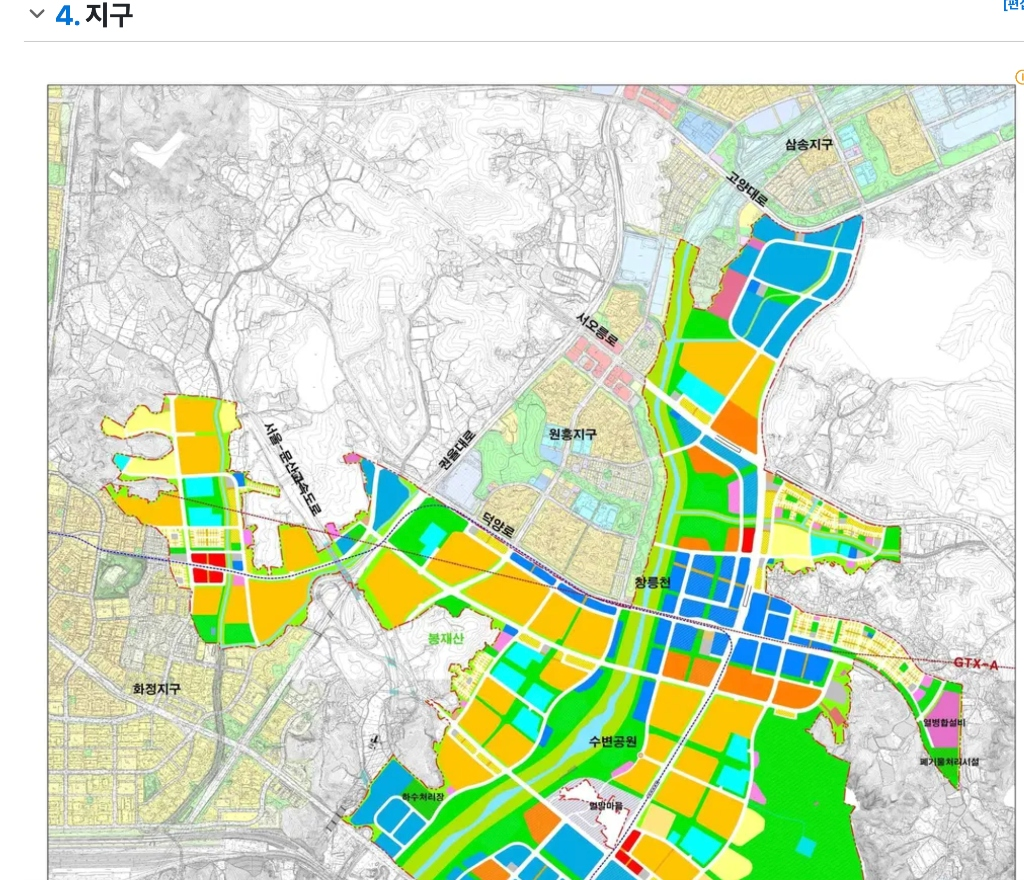
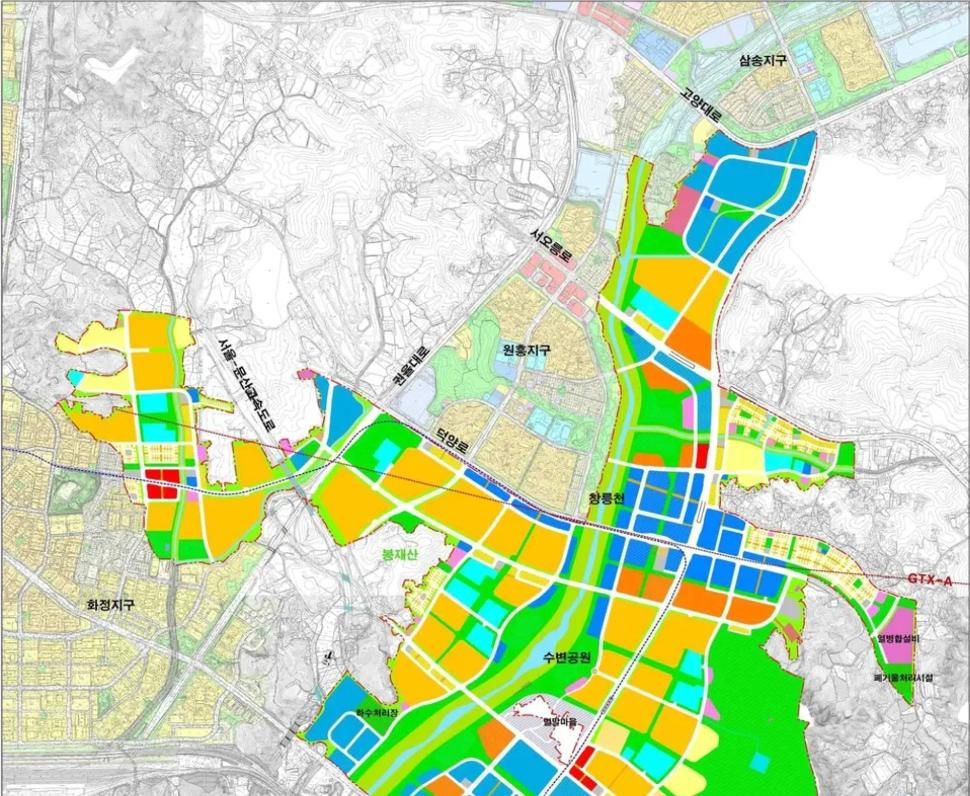
fix: Crop out webpage headers, accordions, and outer margins from blueprints so only the pure map drawing fills the viewer

diff --git a/src/components/RealEstateFuture.tsx b/src/components/RealEstateFuture.tsx
@@ -464,7 +464,7 @@ const NEW_TOWNS_DATA: NewTownDetail[] = [
     naverNewsQuery: '하남 교산 3기 신도시 3호선 송파하남선',
     officialBlueprintUrl: '/maps/hanam_gyosan_namu_dual.jpg',
     namuWikiUrl: 'https://namu.wiki/w/%EA%B5%90%EC%82%B0%EC%8B%A0%EB%8F%84%EC%8B%9C#s-2',
-    lhOfficialUrl: 'https://www.xn--3-3u6ey6lv7rsa.kr/kor/CMS/Contents/Contents.do?mCode=MN050',
+    lhOfficialUrl: 'https://www.xn--3-3u6ey6lv7rsa.kr/kor/CMS/Contents/Contents.do?mCode=MN056',
     mapCoords: { x: 670, y: 400, gangnamTime: '수서 15분 / 양재 22분', seoulTime: '잠실 15분' },
     blocks: [
       {
@@ -484,7 +484,7 @@ const NEW_TOWNS_DATA: NewTownDetail[] = [
         progressStatus: '2025년 본청약 예정',
         progressStatusColor: 'bg-[#0066ff] text-white',
         note: '1,115세대 랜드마크 대단지로 3호선 초역세권과 상업지구를 모두 갖춘 최고 핵심 블록',
-        pinPos: { x: 74, y: 35 }
+        pinPos: { x: 74, y: 30 }
       },
       {
         blockCode: '교산 A-1',
@@ -503,7 +503,7 @@ const NEW_TOWNS_DATA: NewTownDetail[] = [
         progressStatus: '착공 준비 중',
         progressStatusColor: 'bg-emerald-50 text-[#029f45] border-[#03c75a]/30',
         note: '도로를 건너지 않는 초품아 단지로 신혼부부 사전청약 당시 높은 경쟁률 기록',
-        pinPos: { x: 70, y: 28 }
+        pinPos: { x: 70, y: 22 }
       },
       {
         blockCode: '교산 B-1',
@@ -522,7 +522,7 @@ const NEW_TOWNS_DATA: NewTownDetail[] = [
         progressStatus: '지구조성 중',
         progressStatusColor: 'bg-slate-100 text-slate-700 border-slate-300',
         note: '민간 1군 브랜드가 시공 예정인 84㎡ 중심 하이엔드 공원 조망 단지',
-        pinPos: { x: 80, y: 48 }
+        pinPos: { x: 80, y: 44 }
       },
       {
         blockCode: '교산 B-3',
@@ -541,7 +541,7 @@ const NEW_TOWNS_DATA: NewTownDetail[] = [
         progressStatus: '2025년 하반기 본청약',
         progressStatusColor: 'bg-[#edf4ff] text-[#0066ff] border-[#0066ff]/30',
         note: '송파 접근성이 가장 뛰어나며 자족 첨단R&D 단지와 도보로 출퇴근 가능한 위치',
-        pinPos: { x: 78, y: 68 }
+        pinPos: { x: 78, y: 65 }
       }
     ]
   },
@@ -585,7 +585,7 @@ const NEW_TOWNS_DATA: NewTownDetail[] = [
         progressStatus: '본청약 완료/착공',
         progressStatusColor: 'bg-[#e8f8ee] text-[#029f45] border-[#03c75a]/30',
         note: 'GTX-A 창릉역을 걸어서 이용하는 창릉 최고 대장 블록. 삼성역 10분대 직결',
-        pinPos: { x: 75, y: 70 }
+        pinPos: { x: 74, y: 67 }
       },
       {
         blockCode: '창릉 S-6',
@@ -604,7 +604,7 @@ const NEW_TOWNS_DATA: NewTownDetail[] = [
         progressStatus: '본청약 완료/착공',
         progressStatusColor: 'bg-[#e8f8ee] text-[#029f45] border-[#03c75a]/30',
         note: '창릉천 수변공원 영구 조망과 초등학교를 동시에 품은 최고급 주거 입지',
-        pinPos: { x: 72, y: 62 }
+        pinPos: { x: 71, y: 58 }
       },
       {
         blockCode: '창릉 A-4',
@@ -623,7 +623,7 @@ const NEW_TOWNS_DATA: NewTownDetail[] = [
         progressStatus: '본청약 완료/착공',
         progressStatusColor: 'bg-[#edf4ff] text-[#0066ff] border-[#0066ff]/30',
         note: '2024년 말 본청약 접수 완료. 서부선과 직결되는 고양은평선 수혜 단지',
-        pinPos: { x: 38, y: 55 }
+        pinPos: { x: 35, y: 50 }
       },
       {
         blockCode: '창릉 B-1',
@@ -642,7 +642,7 @@ const NEW_TOWNS_DATA: NewTownDetail[] = [
         progressStatus: '부지 조성 중',
         progressStatusColor: 'bg-slate-100 text-slate-700 border-slate-300',
         note: '민간 브랜드 시공 예정으로 중대형 평형을 선호하는 갈아타기 수요 최우선 타겟',
-        pinPos: { x: 74, y: 45 }
+        pinPos: { x: 73, y: 39 }
       }
     ]
   },
@@ -686,7 +686,7 @@ const NEW_TOWNS_DATA: NewTownDetail[] = [
         progressStatus: '공급 준비 중',
         progressStatusColor: 'bg-slate-100 text-slate-700 border-slate-300',
         note: '부천대장 북서측 진입부 주거 블록',
-        pinPos: { x: 22, y: 44 }
+        pinPos: { x: 28, y: 42 }
       },
       {
         blockCode: '대장 A-2',
@@ -705,7 +705,7 @@ const NEW_TOWNS_DATA: NewTownDetail[] = [
         progressStatus: '공급 준비 중',
         progressStatusColor: 'bg-emerald-50 text-[#029f45] border-[#03c75a]/30',
         note: '단지 인근 초등학교와 녹지축을 갖춘 신혼희망타운',
-        pinPos: { x: 24, y: 46 }
+        pinPos: { x: 31, y: 44 }
       },
       {
         blockCode: '대장 A-5',
@@ -724,7 +724,7 @@ const NEW_TOWNS_DATA: NewTownDetail[] = [
         progressStatus: '본청약 완료/착공',
         progressStatusColor: 'bg-[#e8f8ee] text-[#029f45] border-[#03c75a]/30',
         note: 'SK그룹 R&D 캠퍼스 도보 3분 거리로 고소득 연구원 배후 임대 및 실거주 수요 탄탄',
-        pinPos: { x: 47, y: 49 }
+        pinPos: { x: 65, y: 48 }
       },
       {
         blockCode: '대장 A-6',
@@ -743,7 +743,7 @@ const NEW_TOWNS_DATA: NewTownDetail[] = [
         progressStatus: '착공 순항 중',
         progressStatusColor: 'bg-purple-50 text-purple-700 border-purple-200',
         note: '유치원과 초등학교를 단지 안마당처럼 품고 있는 안심 보육 단지',
-        pinPos: { x: 46, y: 53 }
+        pinPos: { x: 64, y: 52 }
       },
       {
         blockCode: '대장 A-7',
@@ -762,7 +762,7 @@ const NEW_TOWNS_DATA: NewTownDetail[] = [
         progressStatus: '2025년 본청약 예정',
         progressStatusColor: 'bg-[#03c75a] text-white',
         note: '홍대입구역 20분 컷 대장홍대선 초역세권으로 마곡/상암 직주근접 최고 입지',
-        pinPos: { x: 53, y: 51 }
+        pinPos: { x: 74, y: 50 }
       },
       {
         blockCode: '대장 A-8',
@@ -781,7 +781,7 @@ const NEW_TOWNS_DATA: NewTownDetail[] = [
         progressStatus: '착공 및 본청약 준비',
         progressStatusColor: 'bg-[#edf4ff] text-[#0066ff] border-[#0066ff]/30',
         note: '대장신도시 중심 상업지구와 복합커뮤니티 센터가 바로 연결되는 편리한 단지',
-        pinPos: { x: 53, y: 55 }
+        pinPos: { x: 74, y: 55 }
       },
       {
         blockCode: '대장 B-1',
@@ -800,7 +800,7 @@ const NEW_TOWNS_DATA: NewTownDetail[] = [
         progressStatus: '공급 준비 중',
         progressStatusColor: 'bg-slate-100 text-slate-700 border-slate-300',
         note: '중앙 녹지축과 맞닿은 84㎡ 중심의 쾌적한 주거 단지',
-        pinPos: { x: 29, y: 46 }
+        pinPos: { x: 38, y: 44 }
       },
       {
         blockCode: '대장 B-5',
@@ -819,7 +819,7 @@ const NEW_TOWNS_DATA: NewTownDetail[] = [
         progressStatus: '공급 준비 중',
         progressStatusColor: 'bg-purple-50 text-purple-700 border-purple-200',
         note: 'SK R&D 캠퍼스 북측 위치, 1군 브랜드 시공 예정 민간 대단지',
-        pinPos: { x: 41, y: 48 }
+        pinPos: { x: 56, y: 46 }
       }
     ]
   },
